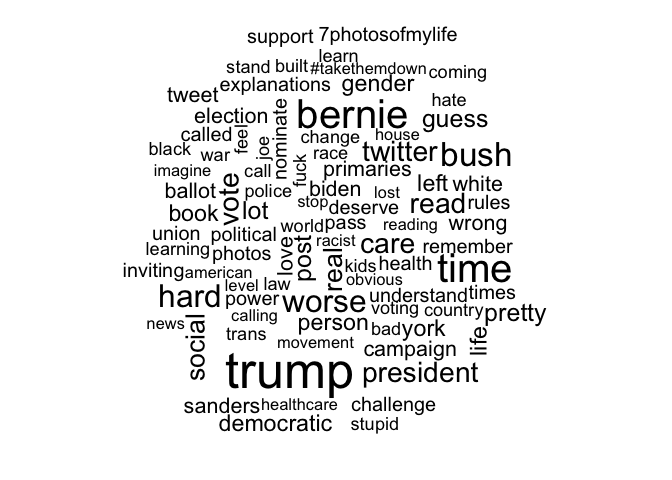
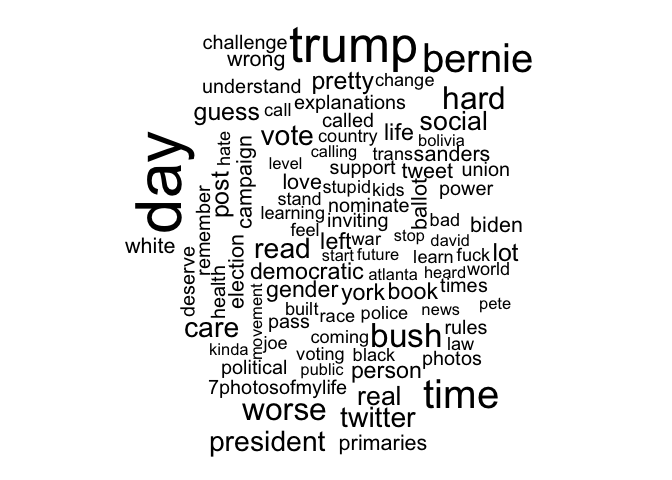
fixed typo

Changed region(s): [[0.1875, 0.0625, 0.8125, 0.9688]]

diff --git a/Twitter-Exploration.md b/Twitter-Exploration.md
@@ -198,7 +198,7 @@ tidy_james_favs <- james %>%
 word_count <- tidy_james_favs %>%
   filter(!str_detect(word, "^@")) %>%
   count(word, sort = TRUE) %>%
-  #"people" shoes up way to often and doesn't tell us much
+  #"people" shows up way to often and doesn't tell us much
   filter(word != "people")
 
 head(word_count, 20)
@@ -251,7 +251,7 @@ tidy_favs_favs <- my_favs_favs %>%
 favs_word_count <- tidy_favs_favs %>%
   filter(!str_detect(word, "^@")) %>%
   count(word, sort = TRUE) %>%
-  #"people" shoes up way to often and doesn't tell us much
+  #"people" shows up way to often and doesn't tell us much
   filter(word != "people")
 
 head(favs_word_count, 20)
@@ -339,7 +339,7 @@ tidy_james_tweets <- james_tweets %>%
 tweets_word_count <- tidy_james_tweets %>%
   filter(!str_detect(word, "^@")) %>%
   count(word, sort = TRUE) %>%
-  #"people" shoes up way to often and doesn't tell us much
+  #"people" shows up way to often and doesn't tell us much
   filter(word != "people")
 
 head(tweets_word_count, 20)
@@ -390,9 +390,6 @@ ggplot(my_twitter_sentiment, aes(date, sentiment)) +
 tweets_word_count %>%
   with(wordcloud(word, n, max.words = 90))
 ```
-
-    ## Warning in wordcloud(word, n, max.words = 90): day could not be fit on page. It
-    ## will not be plotted.
 
 ![](Twitter-Exploration_files/figure-gfm/unnamed-chunk-3-2.png)<!-- -->
 
